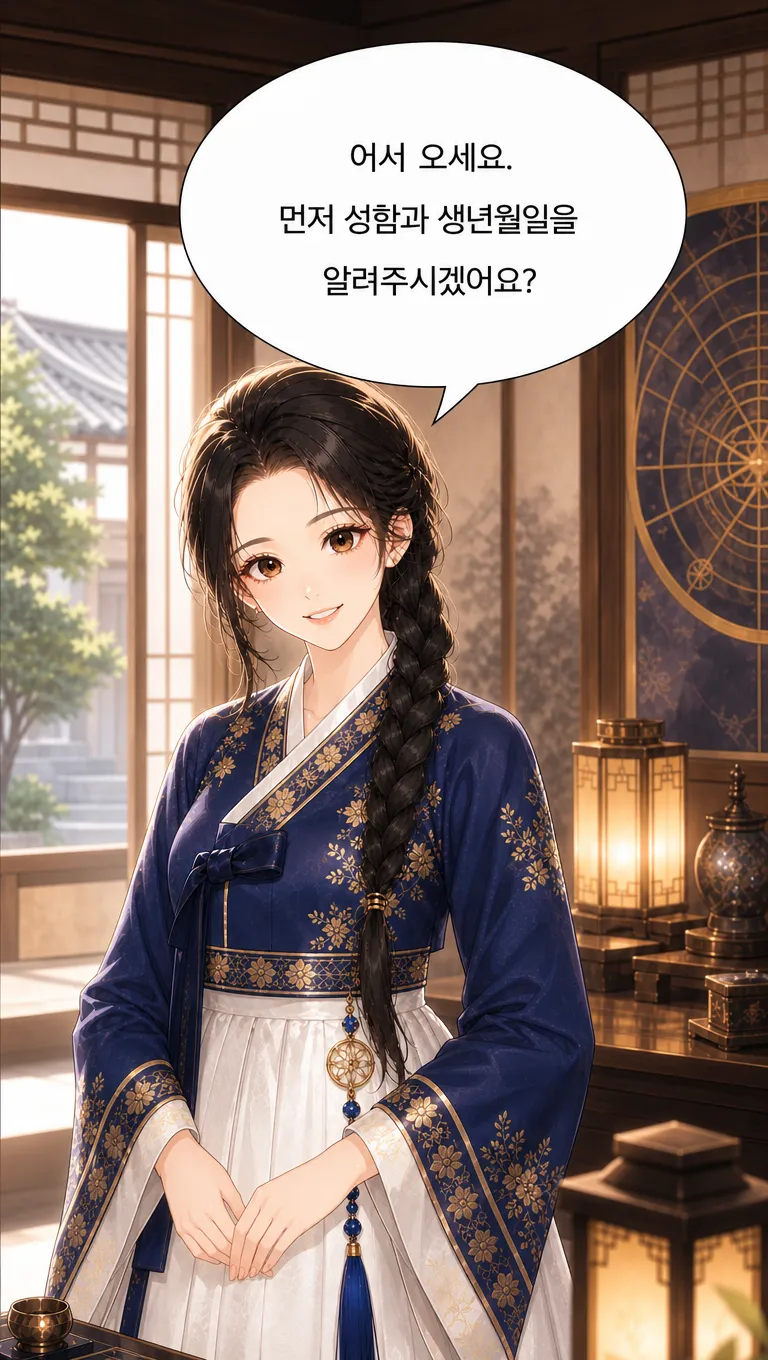
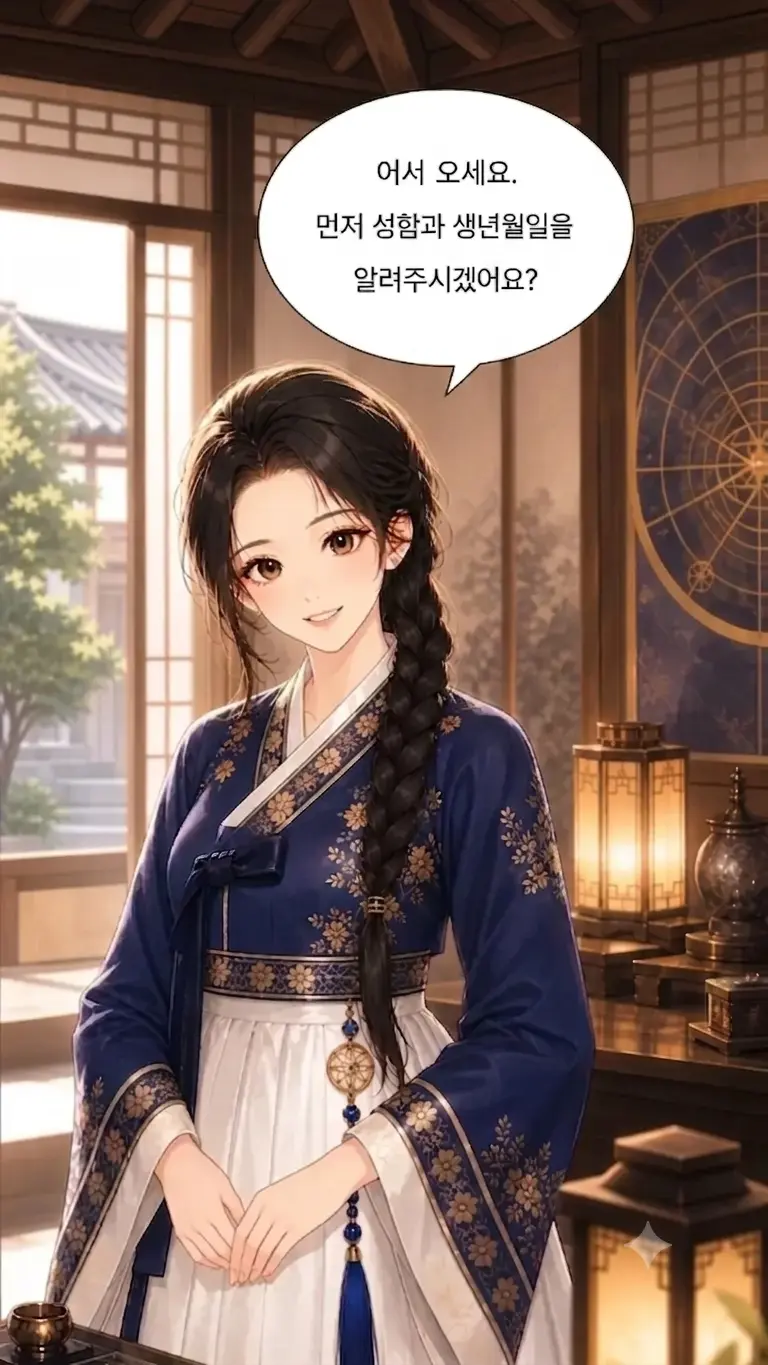
feat: 이미지 최신화

diff --git a/apps/cheongyeon-saju/next.config.ts b/apps/cheongyeon-saju/next.config.ts
@@ -6,16 +6,12 @@ const nextConfig: NextConfig = {
     viewTransition: false,
   },
   async headers() {
+    // public 정적 미디어는 내용이 거의 안 바뀌므로 장기 immutable 캐시.
+    // (Vercel은 public 파일을 기본적으로 매 요청 재검증하므로 명시 헤더가 없으면 느리다.)
+    const longCache = [{ key: 'Cache-Control', value: 'public, max-age=31536000, immutable' }];
     return [
-      {
-        source: '/:path*.webp',
-        headers: [
-          {
-            key: 'Cache-Control',
-            value: 'public, max-age=31536000, immutable',
-          },
-        ],
-      },
+      { source: '/:path*.webp', headers: longCache },
+      { source: '/:path*.mp4', headers: longCache },
     ];
   },
 };